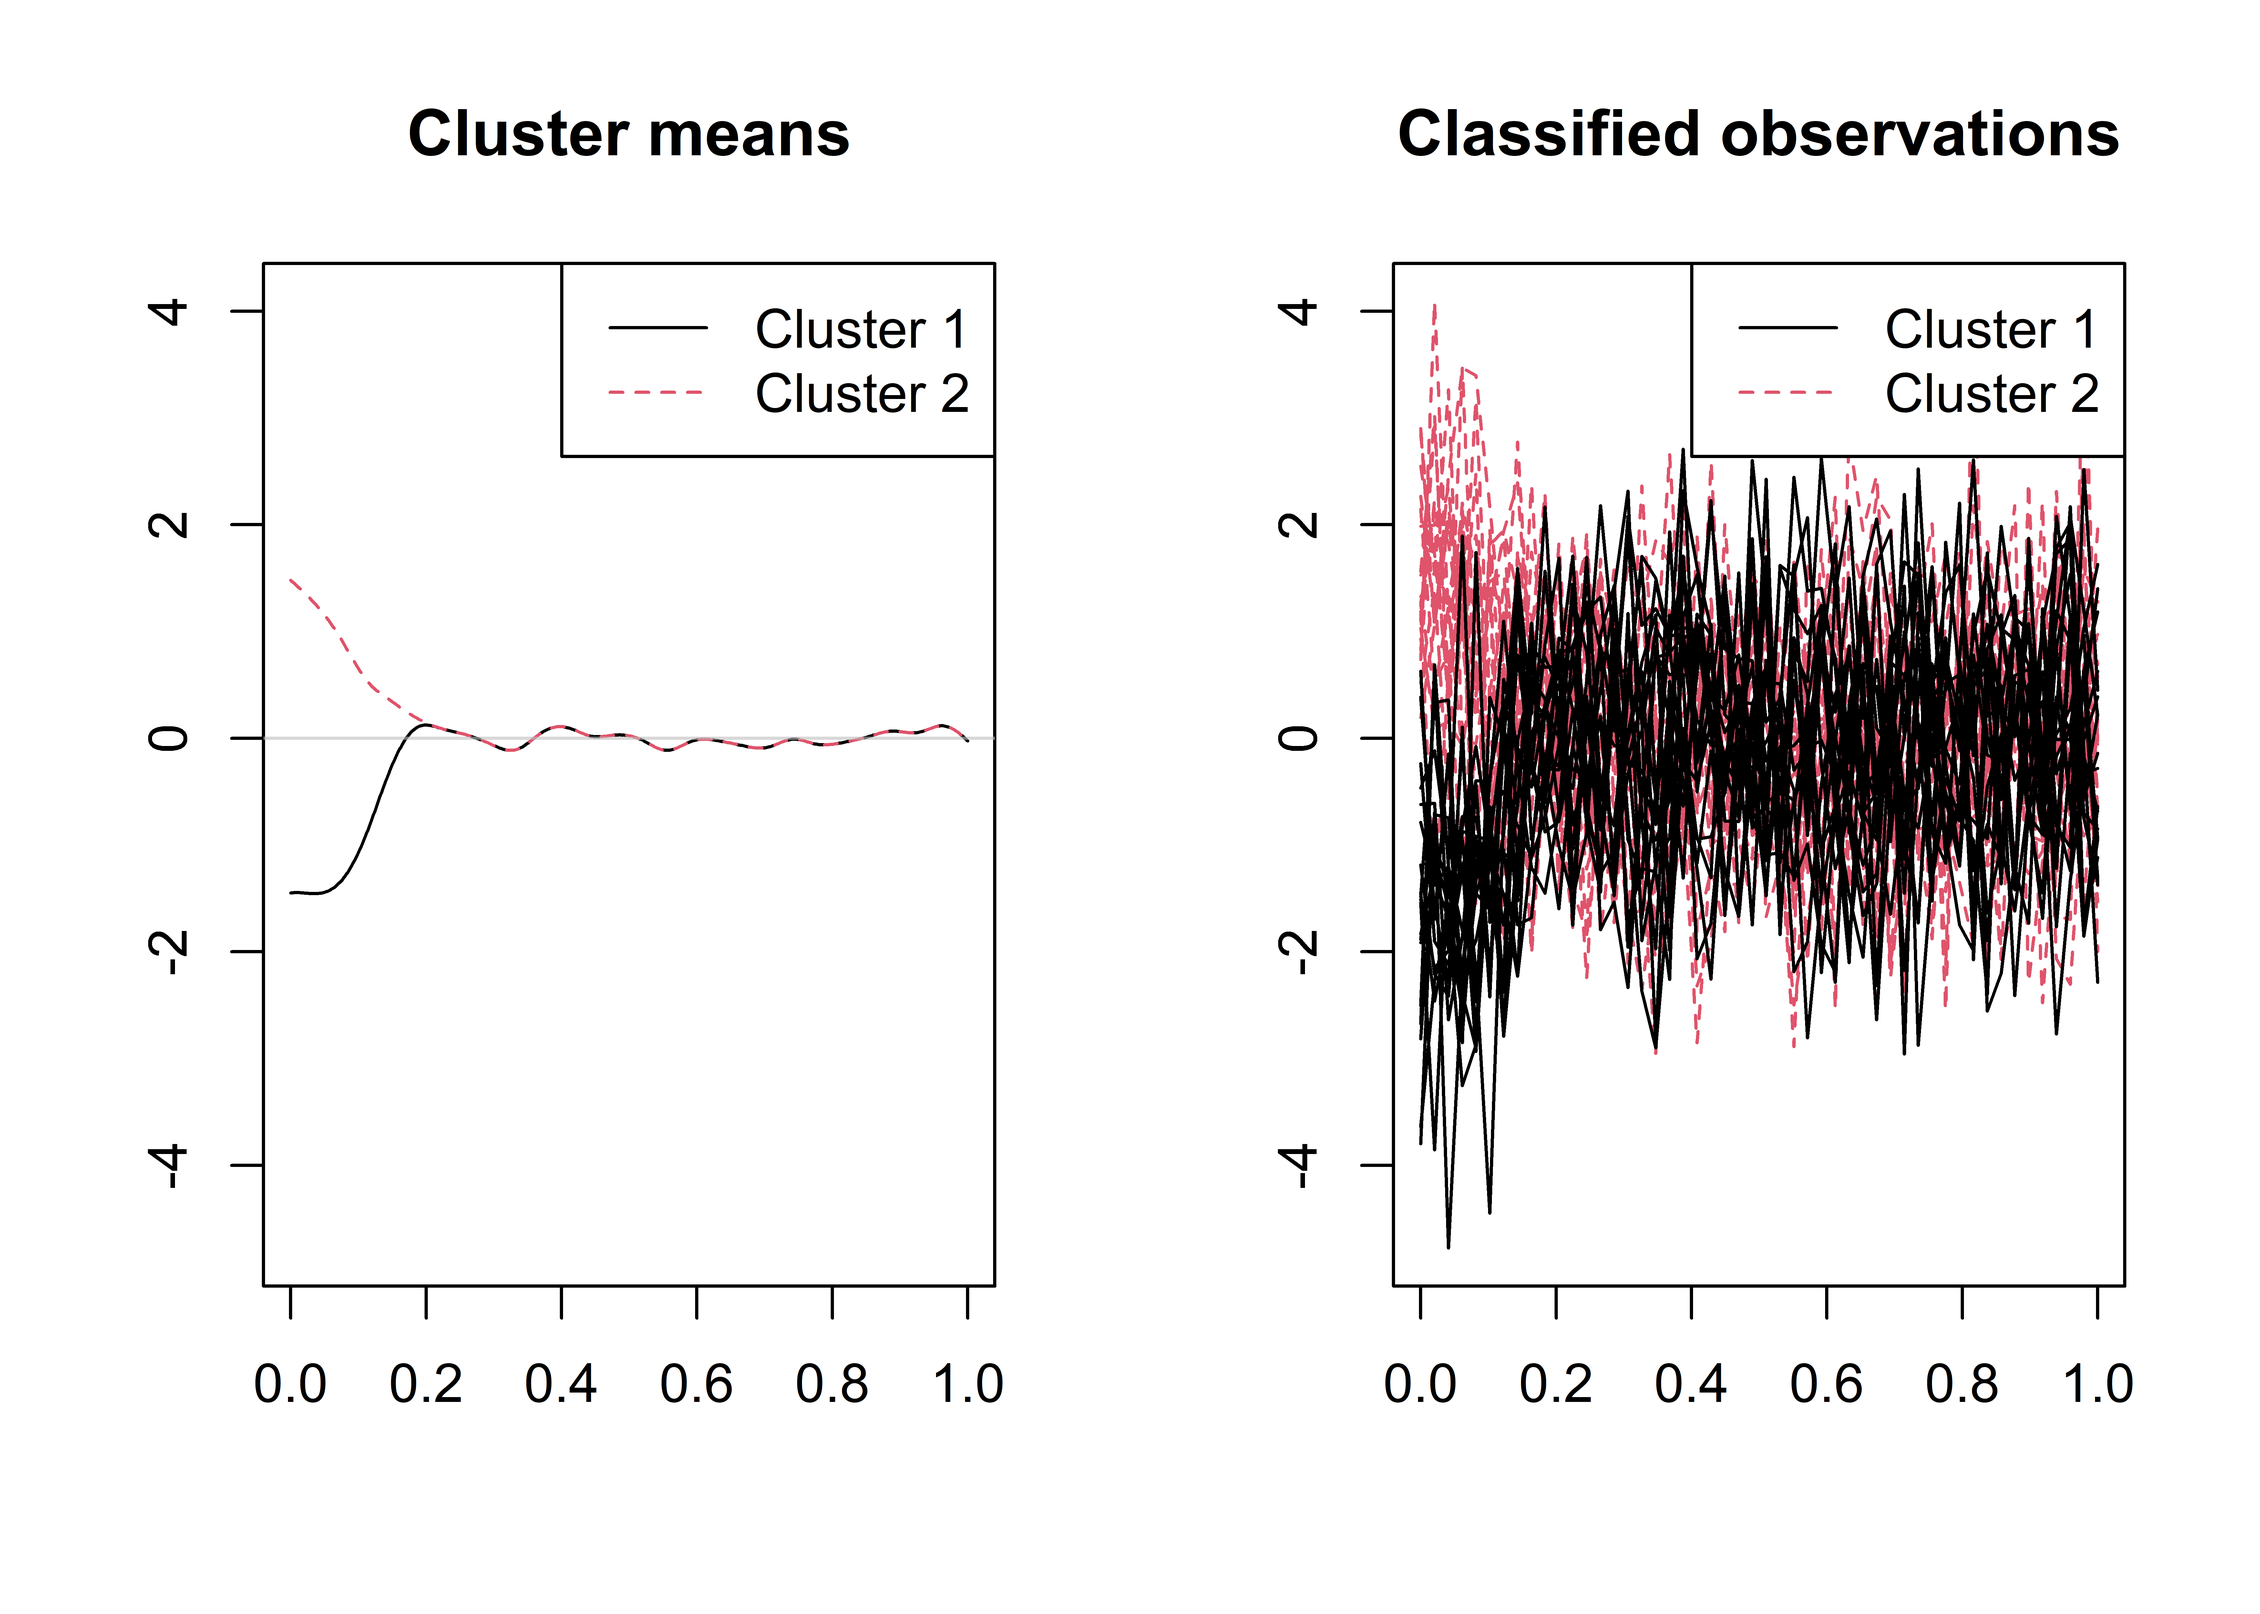
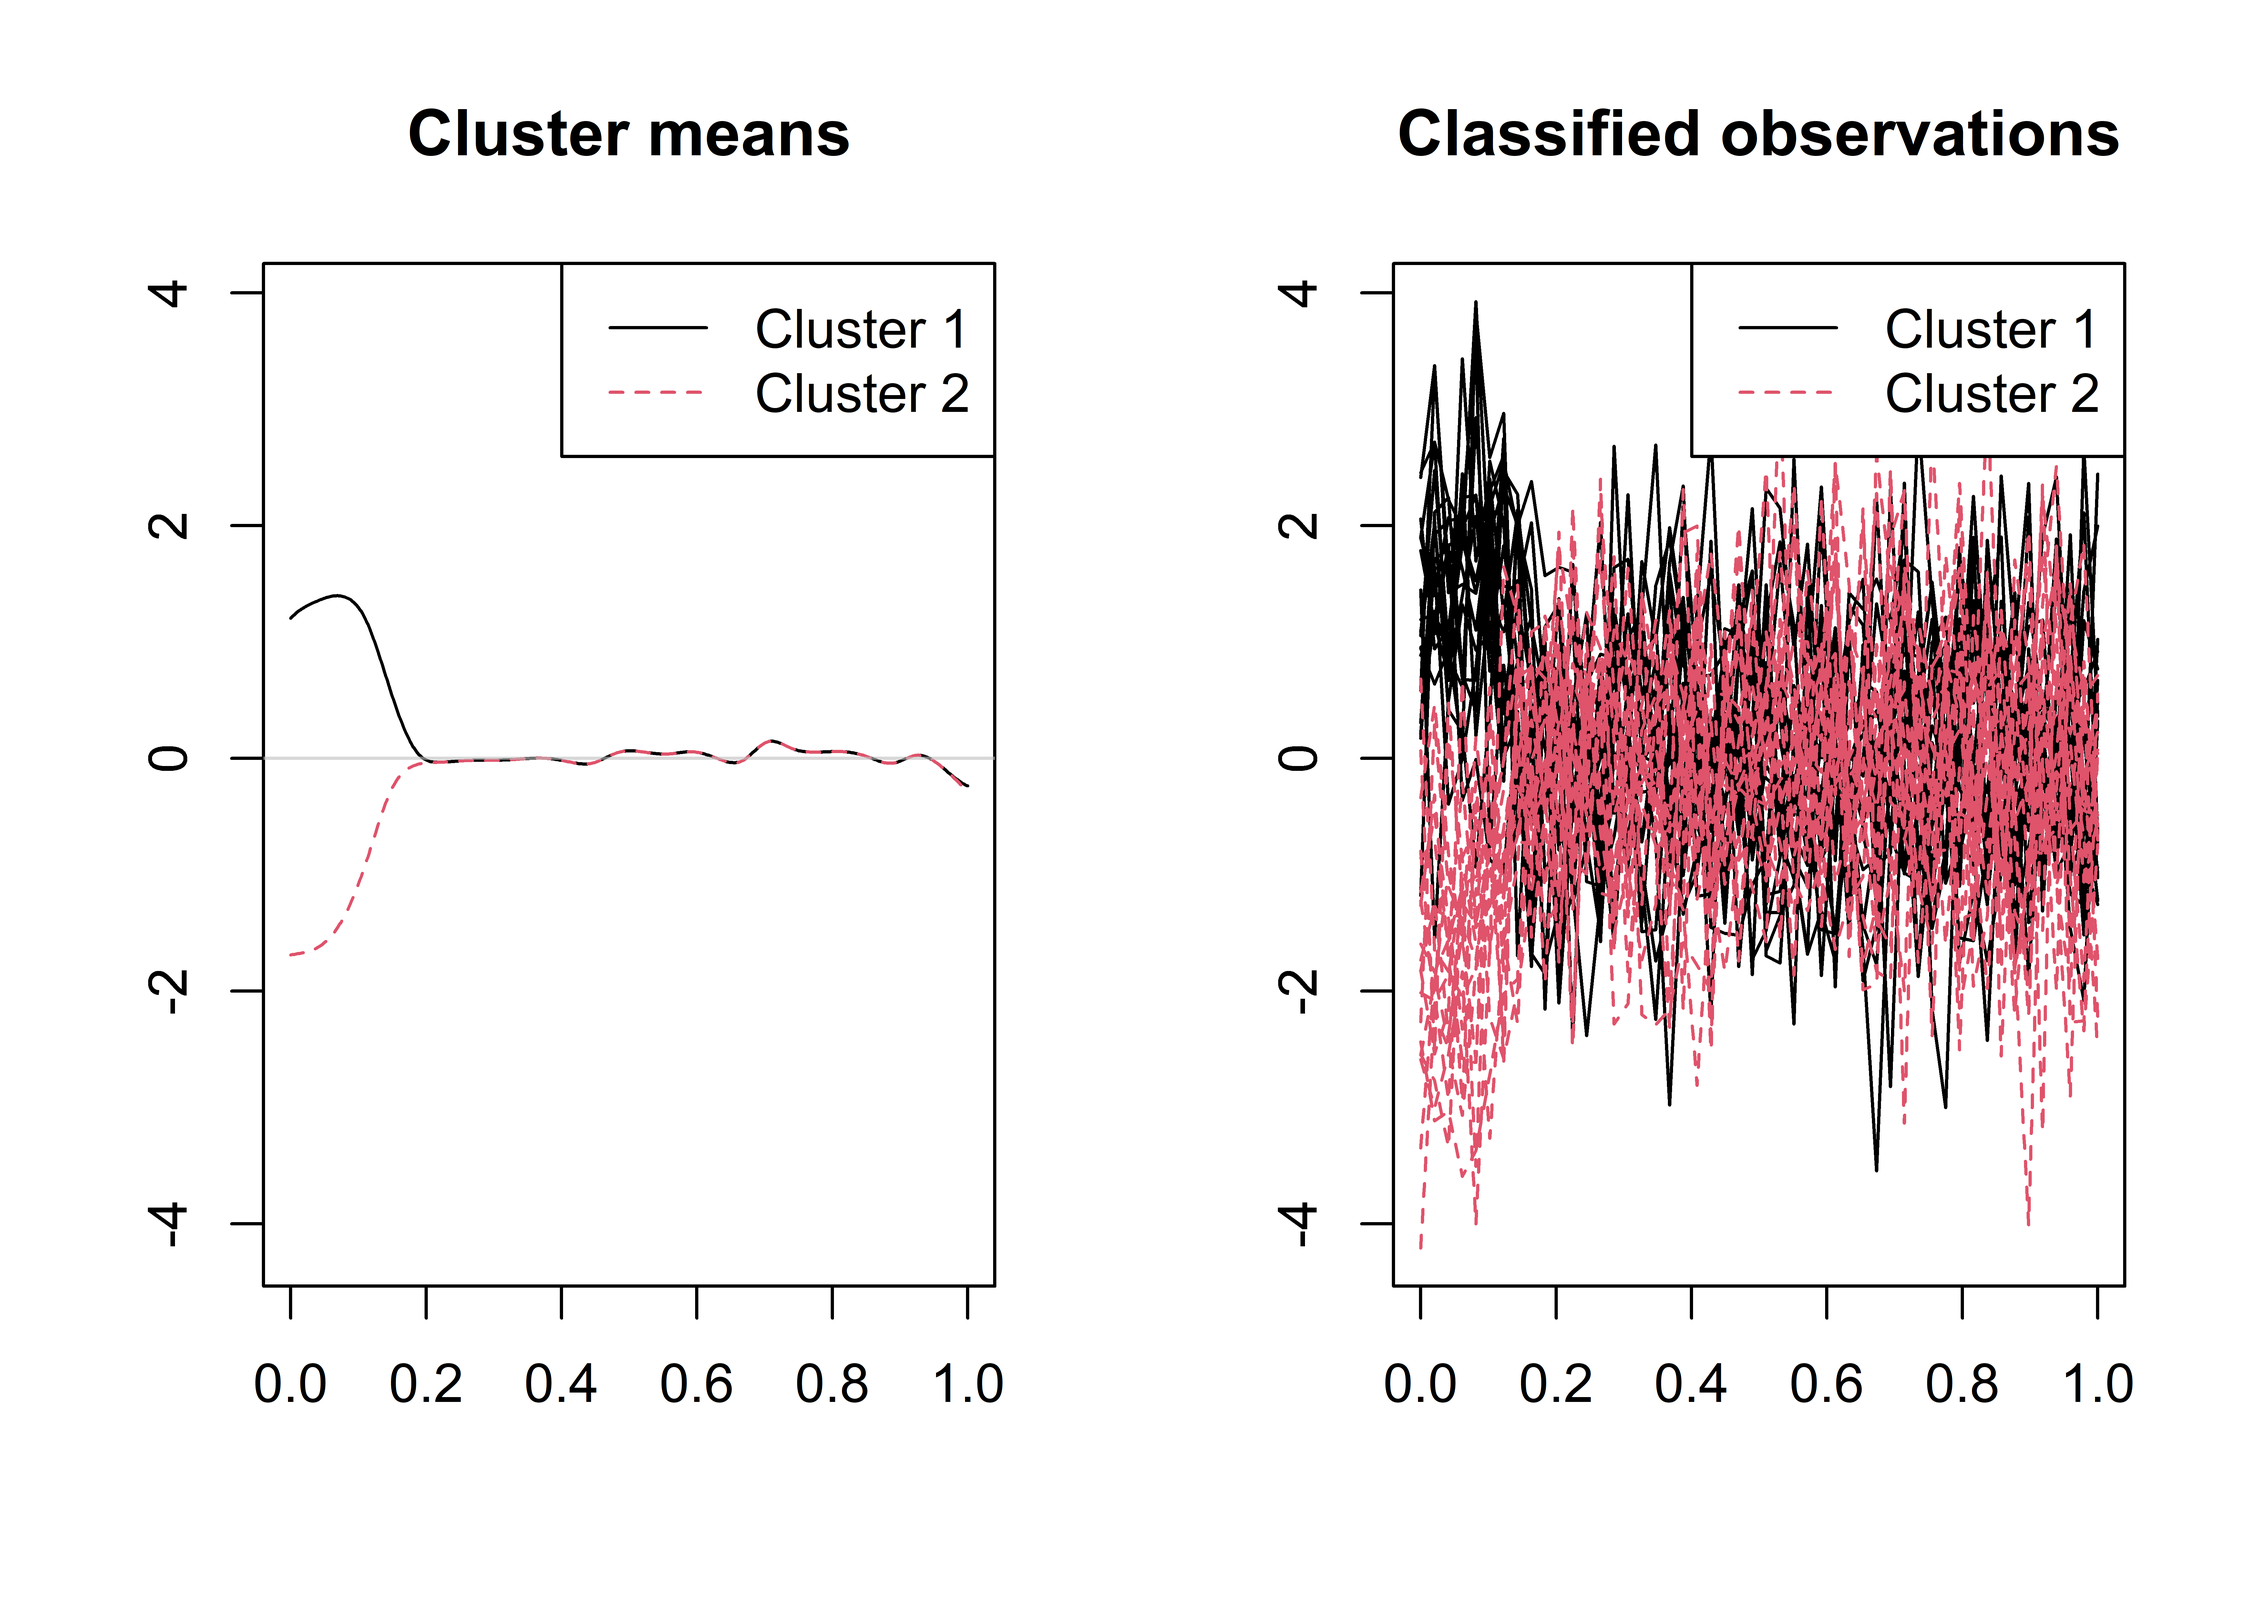
Small changes

diff --git a/README.md b/README.md
@@ -68,7 +68,7 @@ And, then, `sasfclust_cv` is executed.
 
 ``` r
 mod_cv<-sasfclust_cv(X=train$X,grid=train$grid,G_seq=G_seq,
-lambda_l_seq = lambda_l_seq,lambda_s_seq =lambda_s_seq,maxit = 200,K_fold = 5,q=30,ncores = 7)
+lambda_l_seq = lambda_l_seq,lambda_s_seq =lambda_s_seq,maxit = 50,K_fold = 5,q=30,ncores = 7)
 ```
 
 The results are plotted.
@@ -87,7 +87,7 @@ Finally, `sasfclust` is applied with *G*, *λ*<sub>*s*</sub>, and
 
 ``` r
 mod<-sasfclust(X=train$X,grid=train$grid,G=mod_cv$G_opt,
-lambda_l = mod_cv$lambda_l_opt,lambda_s =mod_cv$lambda_s_opt,maxit = 200,q=30)
+lambda_l = mod_cv$lambda_l_opt,lambda_s =mod_cv$lambda_s_opt,maxit = 50,q=30)
 ```
 
 The cluster membership vector and the plot of the estimated cluster mean
@@ -95,10 +95,12 @@ functions and the classified curves are obtained as follows.
 
 ``` r
 print(mod$clus$classes)
-#>  [1] 2 2 2 2 2 2 2 2 2 2 2 2 2 2 2 2 2 2 2 2 1 1 1 1 1 1 1 1 1 1 1 1 1 1 1 1 1 1
-#> [39] 1 1
+#>  [1] 1 1 1 1 1 1 1 1 1 1 1 1 1 1 1 1 1 1 1 1 2 2 2 2 2 2 2 2 2 2 2 2 2 2 2 2 2 2
+#> [39] 2 2
 plot(mod)
 ```
 
 <img src="man/figures/README-unnamed-chunk-8-1.png" width="100%" /> \#
-References
+References \* Centofanti F., Lepore A., Palumbo B. (2021)
+<!-- Sparse and Smooth Functional Data Clustering --> *arXiv preprint
+arXiv:*
